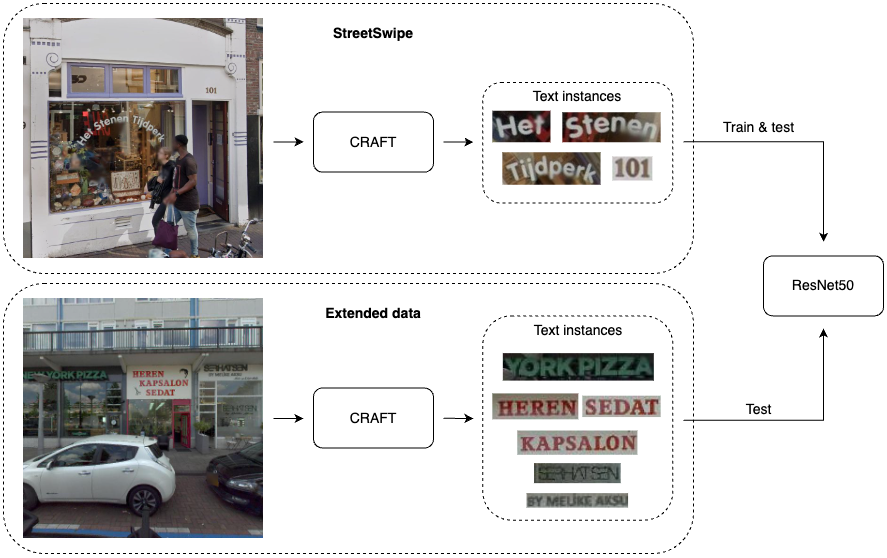
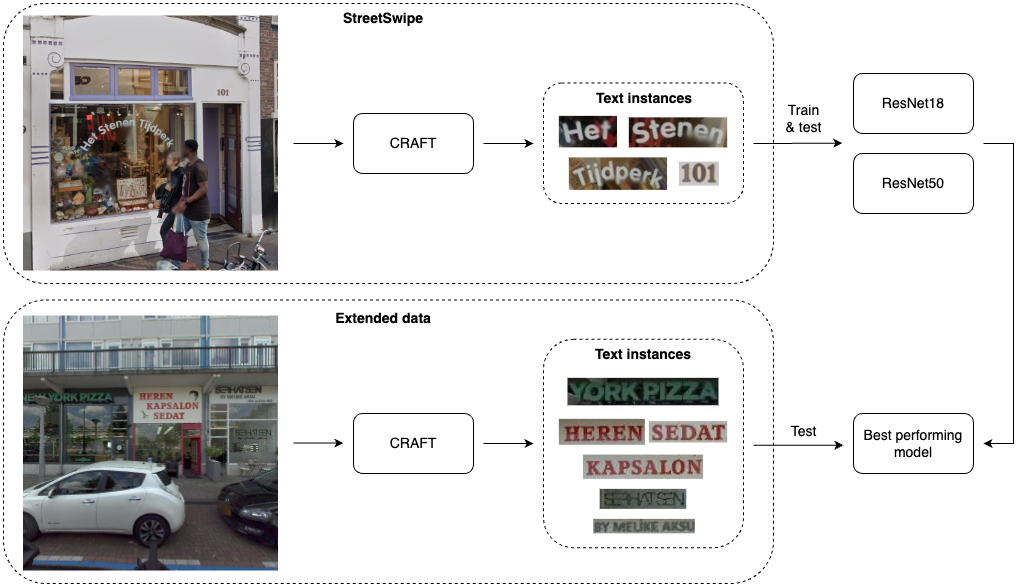
update

diff --git a/sections/2-thesis/2-related-work.tex b/sections/2-thesis/2-related-work.tex
@@ -1,11 +1,7 @@
 \section{Related Work}
 \label{sec:related_work}
 
-The state-of-the-art of the question at hand is that ...
-
 This section first outlines the findings of current ethnographic and urban studies on signage and gentrification, followed by a brief exploration into scene-text attribute learning. Next, the state-of-the-art of scene-text detection are given. Finally, image classification is discussed and the computer vision model to be used in the study is presented.
-
-% \subsubsection{Gentrification in Amsterdam}
 
 \subsection{Signage and gentrification}
 
@@ -17,37 +13,36 @@ Next to this, other studies have also analyzed storefront signage but with their
 
 All in all, findings show clear differences between the characteristics of gentrified and non-gentrified signage. It was therefore hypothesized that the same pattern can be found in Amsterdam's signage, and thus a computer vision model can be used to distinguish and detect gentrification based on signage.
 
-\subsubsection{Scene-text attribute learning (font, color, semantic)}
-Taking inspiration from the insights outlined above, where signage was analyzed in terms of typeface, color, and textual meaning (among other elements), an exploration in this direction was done for the current study. The initial goal was to learn these specific attributes and quantify, on a large scale, what characteristics differentiate gentrified and non-gentrified signage in Amsterdam. The pipeline would involve detecting the text instances from the original images (text detection), classifying the font type, inferring the dominant color, transcribing the text (text recognition), and learn semantics via word embeddings. However, given the state of the dataset at hand - namely, the lack of annotations other than the gentrification label - as well as resources available, this research direction was ultimately deemed unsuitable. The state-of-the-art approaches are described below.
+\subsubsection{Scene-text attribute learning}
+Taking inspiration from the insights outlined above, where signage was analyzed in terms of typeface, color, and textual meaning (among other elements), an exploration in this direction was done for the current study. The initial goal was to learn these specific attributes and quantify, on a large scale, what characteristics differentiate gentrified and non-gentrified signage in Amsterdam. The pipeline would involve detecting the text instances from the original images (text detection), classifying the font type, inferring the dominant colors, transcribing the text (text recognition), and learn semantics via word embeddings. However, given the state of the dataset at hand - namely, the lack of annotations other than the gentrification label - as well as resources available, this research direction was ultimately deemed unsuitable. The state-of-the-art approaches are described below.
 
 \begin{enumerate}
-    \item End-to-end: These are models that can take an image and output multiple elements of interest. Examples are NeurTEx \cite{aggarwal_neurtex_2022} (outputs text bounding box, transcript, and typeface), Fontnet \cite{s_fontnet_2021} (outputs color and typeface), and TaCo \cite{nie_taco_2022} (outputs color and typeface). However, these models are designed to be applied in the context of graphic design and on documents. Thus, they are not reliable when it comes to scene-text because of the added noise and distortions of natural images, especially given the lack of ground truth labels on StreetSwipe.
+    \item End-to-end: These are models that can take an image and output multiple elements of interest. Examples are NeurTEx \cite{aggarwal_neurtex_2022} (outputs text bounding box, transcript, and typeface), Fontnet \cite{s_fontnet_2021} (outputs color and typeface), and TaCo \cite{nie_taco_2022} (outputs color and typeface). However, these models are designed to be applied in the context of graphic design and on documents. They are not reliable when it comes to scene-text because of the added noise and distortions of natural images.
     \item Step-by-step: This approach uses individual models to learn each element:
     \begin{itemize}
-        \item Font: State-of-the-art models include DeepFont \cite{wang_deepfont_2015}, HENet \cite{chen_henet_2021}, and benchmark datasets include AdobeVFR \cite{wang_deepfont_2015}, and VFR-2420 \cite{chen_large-scale_2014}. These data are largely synthetic, and accordingly the models perform well on synthetic data, but are not robust when it comes to natural images. Furthermore, with neither pre-trained models nor ground truth available on StreetSwipe images, training and evaluation proves to be challenging and unreliable.
-        \item Text transcripts and semantics: Scene-text recognition models include MORAN \cite{luo_multi-object_2019}, CRNN \cite{shi_end2end_2015}, and PARSeq \cite{bautista_scene_2022}. For learning semantics, word embedding models such as FastText \cite{bojanowski_enriching_2017} or Word2Vec \cite{mikolov_efficient_2013} could be applied on the transcribed text. However, as was found from text detection (discussed in a later section), the text instances from the data were either not meaningful words (a nature of signage text), or fragmented upon detection (many words are broken up). Learning semantics from this data would not give meaningful and consistent results.
-        \item Color: Text colors as a standalone feature could be learnt via creating a color histogram \cite{srivastava_review_2015} per image. But instead, by using a convolution neural network (discussed in a later section), text colors can be learned as well along with many other features.
+        \item Font: State-of-the-art models include DeepFont \cite{wang_deepfont_2015}, HENet \cite{chen_henet_2021}, and benchmark datasets include AdobeVFR \cite{wang_deepfont_2015}, and VFR-2420 \cite{chen_large-scale_2014}. These data are largely synthetic, and accordingly the models perform well on synthetic data, but are not as robust when it comes to natural images. Furthermore, with neither pre-trained models nor ground truth available on StreetSwipe images, training and evaluation proves to be challenging and unreliable.
+        \item Text transcripts and semantics: State-of-the-art scene-text recognition models include MORAN \cite{luo_multi-object_2019}, CRNN \cite{shi_end2end_2015}, and PARSeq \cite{bautista_scene_2022}. For learning semantics, word embedding models such as FastText \cite{bojanowski_enriching_2017} or Word2Vec \cite{mikolov_efficient_2013} could be applied on the transcribed text. However, as was found from text detection (discussed in a later section), the text instances from the data were either not meaningful words (a nature of signage text), or fragmented upon detection (words are broken up). Learning semantics from this data would not give meaningful and consistent results.
+        \item Color: Text colors as a standalone feature could be learnt via creating a color histogram \cite{srivastava_review_2015} per image. But instead, by using a convolution neural network (discussed in a later section), colors can be learned as well along with many other features.
     \end{itemize}
 \end{enumerate}
 
-To account for the lack of ground truth labels, it was also considered that a synthetic scene-text dataset is created to be used as training and testing data, before inference is done on StreetSwipe. Gupta et al. \cite{gupta_synt_2016} offers a method for this that takes into account image segmentation and depth in order to generate text, with annotations on bounding box, typeface, color, and text transcript as needed. An example usage in a closely related study was done by Ma et al. \cite{ma_typef_2019}, in which the authors generated training data to recognize typeface on signage. Considering time constraint, however, this approach is non-viable. It requires either mining street view images that do not have text to be synthesized on, or using pre-generated images from Gupta et al., which largely include many types of background other than street view of facades. Either method proves impractical - the former is time-consuming, even when discounting for model training and tuning; and the latter is a domain mismatch compared to StreetSwipe.
+To account for the lack of ground truth labels, it was also considered that a synthetic scene-text dataset is created to be used as training and testing data, before inference is done on StreetSwipe. Gupta et al. \cite{gupta_synt_2016} offers a method for this that takes into account image segmentation and depth in order to generate text, with annotations on bounding box, typeface, color, and text transcript as needed. An example usage in a closely related study was done by Ma et al. \cite{ma_typef_2019}, in which the authors generated training data to recognize typeface on signage. Considering time constraint, however, this approach was non-viable. It required either mining street view images that do not have text to be synthesized on, or using pre-generated images from Gupta et al., which largely included many types of background other than street view of facades. Either method proved impractical - the former is time-consuming, even when discounting for model training and tuning; and the latter is a domain mismatch compared to StreetSwipe.
 
-All in all, a machine learning approach for replicating existing studies was not found. A more appropriate research direction was devised that involves learning a more general visual representation of the signage with a convolutional neural network. Signs would firstly be extracted using a pre-trained text-detection model, and a classification model would be trained and tested on these signage.
+All in all, a machine learning approach for replicating existing studies was not found. A more appropriate research direction was devised that involved learning a more general visual representation of the signage with a convolutional neural network. Signs would firstly be extracted using a pre-trained text-detection model, and a classification model would be trained and tested on these signage.
 
 \subsection{Scene-text detection}
 Scene-text detection involves identifying and localizing text in natural images - a task fundamental to the current study. The challenge in this task stems from extracting text from complex images, with the text surrounded by other objects, varying in sizes, perspectives, orientations, sometimes curved, obstructed, or blurry.
 
-Benchmark datasets for this task include ICDAR 2013 \cite{icdar13} and 2015 \cite{icdar15}, and TotalText \cite{totaltext}. The most widely implemented models are EAST \cite{zhou_east_2017} and CRAFT \cite{baek_character_2019}. CRAFT is the best performing model on ICDAR 2013, and surpasses EAST on ICDAR 2015 and TotalText. CRAFT is more accurate on curved, long, and non-horizontal text. By calculating character region scores (localizing characters) and affinity scores between characters (grouping characters into sequences), the model returns word-level bounding boxes. The model is also multilingual - a necessary feature considering signage in the dataset are (at least) in Dutch, English, Chinese and Korean. CRAFT is thus the model used in this study for extracting signage.
+Benchmark datasets for this task include ICDAR 2013 \cite{icdar13} and 2015 \cite{icdar15}, and TotalText \cite{totaltext}. The most widely implemented models are EAST \cite{zhou_east_2017} and CRAFT \cite{baek_character_2019}. CRAFT is the best performing model on ICDAR 2013, and surpasses EAST on ICDAR 2015 and TotalText. CRAFT is more accurate on curved, long, and non-horizontal text. By calculating character region scores (localizing characters) and affinity scores between characters (grouping characters into sequences), the model returns word-level bounding boxes. The model is also multilingual - a necessary feature considering signage in the dataset at hand are (at least) in Dutch, English, Chinese and Korean. CRAFT is thus the model used in this study for extracting signage.
 
-The pre-trained CRAFT model was implemented via the EasyOCR Python package \cite{noauthor_jaided_nodate}, which offers an ease of implementation also allows for processing multiple languages simultaneously.
+The pre-trained CRAFT model was implemented via the EasyOCR Python package \cite{noauthor_jaided_nodate}, which offered an ease of implementation and also allowed for processing multiple languages simultaneously.
 
 \subsection{Image classification}
-The Residual Network (ResNet) \cite{resnet}, along with the use of skip connections in its architecture, has enabled deeper networks to learn more efficiently, without the problem of vanishing or exploding gradients. For the task of learning and classifying signage, fine-tuned ResNet18 and ResNet50 were used, initialized with pre-trained weights from ImageNet. After achieving satisfactory performance, the best model's predictions were further analyzed. 
+The Residual Network (ResNet) \cite{resnet}, with the use of skip connections in its architecture, has enabled deeper networks to learn more efficiently, without the problem of vanishing or exploding gradients. For the task of learning and classifying signage, fine-tuned ResNet18 and ResNet50 were chosen as candidate models, initialized with pre-trained weights from ImageNet. After achieving satisfactory performance, the best model's predictions were further analyzed. 
 
-Firstly, the correctly classified signage within the top 10 highest probability from each class were inspected - this showed the most typical and distinguishing characteristics of gentrified and non-gentrified signage. In comparison with existing studies (as outlined in section 2.1), conclusions were drawn on the extent to which patterns found elsewhere were similar to our case of Amsterdam.
+Firstly, the correctly classified signage within the top 20 highest probabilities from each class were inspected - this showed the most typical and distinguishing characteristics of gentrified and non-gentrified signage. In comparison with existing studies (as outlined in section 2.1), conclusions were drawn on the extent to which patterns found elsewhere were similar to our case of Amsterdam.
 
-Secondly, the incorrectly classified signage were inspected, especially those with probabilities of belonging in the two classes close together. These can be considered the more fuzzy cases - something that previous studies did not report on.
+Secondly, the incorrectly classified signage were inspected. These can be considered the more fuzzy cases - something that previous studies did not report on.
 
-Finally, the model were tested on an external dataset of other neighborhoods in the city. Given literature on gentrification in Amsterdam, gentrified and non-gentrified neighborhoods (i.e. per census data) were selected, and street view images from these areas are collected from a dataset made available by the Civic AI Lab. Gentrified neighborhoods include Jordaan \cite{verlaan_hippies_2022}, Oud-West, De Baarjes \cite{rettberg_when_2019}; and non-gentrified neighborhoods include Zuidoost and Nieuw-West \cite{pinkster_stickiness_2020}. Images taken from these neighborhoods are labeled accordingly. Thus, when testing the model (trained on visual perception) on this data, we could tell to which extent the perception is applicable on a neighborhood level (i.e. given a gentrified neighborhood, to which extent are signage in that neighborhood seen as gentrified?). Further, the model's prediction on this data were also visualized as per highest probabilities per class, irrespective of ground truth label. This showed us what the model think as gentrified and non-gentrified, and were this to be in-line with characteristics found in StreetSwipe, this would support the model's generalizability in detecting gentrification.
+Finally, the model was tested on an external dataset of other neighborhoods in the city. Given literature on gentrification in Amsterdam, gentrified and non-gentrified neighborhoods were selected, and street view images from these areas were retrieved from a dataset made available by the Civic AI Lab. Gentrified areas include Jordaan \cite{verlaan_hippies_2022}, Oud-West, De Baarjes \cite{rettberg_when_2019}; and non-gentrified areas include Zuidoost and Nieuw-West \cite{pinkster_stickiness_2020}. Images taken from these neighborhoods are labeled accordingly. Thus, when testing the model (trained on visual perception) on this data (labeled per census data), we could tell to which extent the perception is applicable on a neighborhood level. In other words, given a gentrified neighborhood, to which extent are signage in that neighborhood seen as gentrified? Further, the model's predictions on this data were also visualized as per the highest 20 probabilities per class, irrespective of ground truth labels. This showed what the model considered as gentrified and non-gentrified, and were this to be in-line with characteristics found in StreetSwipe, this would support the model's generalizability in detecting gentrification.
 
-In summary, [...]

diff --git a/sections/2-thesis/4-results.tex b/sections/2-thesis/4-results.tex
@@ -31,37 +31,54 @@ The data was not annotated with bounding boxes of the signage as ground truth fo
 
 \subsection{Classification}
 \subsubsection{Baseline}
-Results of the baseline model is shown in Table \ref{fig:baseline_avg}, along with its classwise metrics in Table \ref{fig:baseline_cls}.
+Results of the baseline model are shown in Table \ref{fig:baseline_metrics}.
 
-\begin{table}[H]
-\begin{tabular}{lcc}
-\multirow{2}{*}{Metrics} & \multicolumn{2}{c}{Baseline} \\ \cline{2-3} 
-                         & Val         & Test           \\ \hline
-Accuracy                 & X           & 0.5810         \\
-Precision                & X           & 0.6852         \\
-Recall                   & X           & 0.5810         \\
-F1-score                 & X           & 0.5800        
-\end{tabular}
-\caption{Macro-averaged metrics of baseline model (ResNet50, no weighted sampling, no fine-tuning}
-\label{fig:baseline_avg}
-\end{table}
-
-\begin{table}[H]
+\begin{table}[h]
 \begin{tabular}{llcc}
-\multirow{2}{*}{Metrics} & \multirow{2}{*}{Class} & \multicolumn{2}{c}{Baseline} \\ \cline{3-4} 
-                         &                        & Val         & Test           \\ \hline
-Accuracy                 & Gentrified             & X           & 0.2143         \\
-                         & Non-gentrified         & X           & 0.9478         \\
-Precision                & Gentrified             & X           & 0.6122         \\
-                         & Non-gentrified         & X           & 0.7582         \\
-Recall                   & Gentrified             & X           & 0.2143         \\
-                         & Non-gentrified         & X           & 0.9478         \\
-F1-score                 & Gentrified             & X           & 0.3175         \\
-                         & Non-gentrified         & X           & 0.8425        
+\multirow{2}{*}{Metrics}   & \multirow{2}{*}{Class} & \multicolumn{2}{c}{Baseline model}        \\ \cline{3-4} 
+                           &                        & Classwise & Average                 \\ \hline
+Accuracy                   & Gentrified             & 0.2143    & \multirow{2}{*}{0.5810} \\
+                           & Non-gentrified         & 0.9478    &                         \\
+Precision                  & Gentrified             & 0.6122    & \multirow{2}{*}{0.6852} \\
+                           & Non-gentrified         & 0.7582    &                         \\
+Recall                     & Gentrified             & 0.2143    & \multirow{2}{*}{0.5810} \\
+                           & Non-gentrified         & 0.9478    &                         \\
+F1-score                   & Gentrified             & 0.3175    & \multirow{2}{*}{0.5800} \\
+                           & Non-gentrified         & 0.8425    &                        
 \end{tabular}
-\caption{Classwise metrics of baseline model (ResNet50, no weighted sampling, no fine-tuning)}
-\label{fig:baseline_cls}
+\caption{Classwise and macro-averaged metrics of baseline model (ResNet50, no weighted sampling, no fine-tuning). This model achieved very high performance for non-gentrified signage, but performed poorly on gentrified signage, due to class imbalance.}
+\label{fig:baseline_metrics}
 \end{table}
+
+% \begin{table}[H]
+% \begin{tabular}{lcc}
+% \multirow{2}{*}{Metrics} & \multicolumn{2}{c}{Baseline} \\ \cline{2-3} 
+%                          & Val         & Test           \\ \hline
+% Accuracy                 & X           & 0.5810         \\
+% Precision                & X           & 0.6852         \\
+% Recall                   & X           & 0.5810         \\
+% F1-score                 & X           & 0.5800        
+% \end{tabular}
+% \caption{Macro-averaged metrics of baseline model (ResNet50, no weighted sampling, no fine-tuning)}
+% \label{fig:baseline_avg}
+% \end{table}
+
+% \begin{table}[H]
+% \begin{tabular}{llcc}
+% \multirow{2}{*}{Metrics} & \multirow{2}{*}{Class} & \multicolumn{2}{c}{Baseline} \\ \cline{3-4} 
+%                          &                        & Val         & Test           \\ \hline
+% Accuracy                 & Gentrified             & X           & 0.2143         \\
+%                          & Non-gentrified         & X           & 0.9478         \\
+% Precision                & Gentrified             & X           & 0.6122         \\
+%                          & Non-gentrified         & X           & 0.7582         \\
+% Recall                   & Gentrified             & X           & 0.2143         \\
+%                          & Non-gentrified         & X           & 0.9478         \\
+% F1-score                 & Gentrified             & X           & 0.3175         \\
+%                          & Non-gentrified         & X           & 0.8425        
+% \end{tabular}
+% \caption{Classwise metrics of baseline model (ResNet50, no weighted sampling, no fine-tuning)}
+% \label{fig:baseline_cls}
+% \end{table}
 
 \subsubsection{Fine-tuned}
 The best performing model with ResNet18 architecture was found with learning rate set to 0.001, batch size 32, and 60 training epochs. The best performing model with ResNet50 architecture was found with learning rate set to 0.01, batch size 64, and 60 training epochs. The macro-averaged metrics across classes for these models are shown in Table \ref{fig:resnet_compare}. As can be seen, the fine-tuned ResNet50 has better performance. Its classwise metrics are shown in Table \ref{fig:resnet50_cls}.
@@ -75,7 +92,7 @@ Precision                & 0.6185        & 0.6715        & 0.6209        & \text
 Recall                   & 0.6497        & 0.6960        & 0.6506        & \textbf{0.7033}       \\
 F1-score                 & 0.6222        & 0.6781        & 0.6256        & \textbf{0.6865}      
     \end{tabular}
-    \caption{Macro-averaged metrics of best-performing ResNet18 and ResNet50}
+    \caption{Macro-averaged metrics of the best-performing fine-tuned ResNet18 and ResNet50. Between these two models, the fine-tuned ResNet50 performed better.}
     \label{fig:resnet_compare}
 \end{table}
 
@@ -90,10 +107,10 @@ Precision                  & Gentrified             & 0.3953        & 0.5114    
                            & Non-gentrified         & 0.8464        & 0.8476       \\
 Recall                     & Gentrified             & 0.5714        & 0.6429       \\
                            & Non-gentrified         & 0.7299        & 0.7637       \\
-F1-score                   & Gentrified             & 0.4674        & 0.5696       \\
-                           & Non-gentrified         & 0.7838        & 0.8035      
+F1-score                   & Gentrified             & 0.4674        & \textbf{0.5696}       \\
+                           & Non-gentrified         & 0.7838        & \textbf{0.8035}      
 \end{tabular}
-\caption{Classwise metrics of best model (fine-tuned ResNet50, learning rate 0.01, batch size 64, 60 epochs)}
+\caption{Classwise metrics of best model (fine-tuned ResNet50, learning rate 0.01, batch size 64, 60 epochs). Even though there was clear improvements in classifying gentrified signage compared to the baseline model, this model still did better on non-gentrified signage - most notably shown in the F1-scores of each class.}
 \label{fig:resnet50_cls}
 \end{table}
 

diff --git a/sections/2-thesis/3-methodology.tex b/sections/2-thesis/3-methodology.tex
@@ -7,11 +7,11 @@
 
 \subsection{Data}
 \subsubsection{StreetSwipe}
-The main dataset was retrieved from the StreetSwipe project \cite{streetswipe}. Using crowd-sourcing, the project lets people decide whether each Amsterdam facade is gentrified, by voting "Yes" (gentrified) or "No" (non-gentrified) on the street view images of these facades. The official \textit{Gentrified} and \textit{Non-gentrified} labels for each facade are based on what the majority voted for. Thus, this dataset represents common visual perception of gentrification. Additionally, if subsequent voters decide against the majority (e.g. voting \textit{Gentrified} for a non-gentrified-labelled facade), they are also prompted to provide a textual reasoning for their decision. These mismatch responses were also available, however was out of scope of the study. 
+The main dataset was retrieved from the Street-Swipe project \cite{streetswipe}. Using crowd-sourcing, the project lets people decide whether each Amsterdam facade is gentrified, by voting "Yes" (gentrified) or "No" (non-gentrified) on the street view images of these facades. The official \textit{Gentrified} and \textit{Non-gentrified} labels for each facade are based on what the majority voted for. Thus, this dataset represents common visual perception of gentrification. Additionally, if subsequent voters decide against the majority (e.g. voting \textit{Gentrified} for a non-gentrified-labelled facade), they are also prompted to provide a textual reasoning for their decision. These mismatch responses were also available, however was out of scope of the study. 
 
 Since there are two versions of StreetSwipe, the data retrieved existed in two sets, consisting of 1912 higher resolution images from the older version and 529 lower resolution images from the new one. The StreetSwipe dataset thus had 2,441 images in total, each with its numbers of "Yes" and "No" votes, and metadata on the facade's location (latitude and longitude) and street name. The new version's images also had more detailed address, name, and type of business/services. There were also more votes in the new version than in the old one. The images from the old version were available directly, while the new ones were provided via URLs to a Google APIs bucket, and thus were scraped.
 
-Feature engineering was done to create the gentrified/non-gentrified label per image, by taking the vote higher in volume. The images were then re-grouped per their corresponding labels. There was class imbalance in the data, with 71\% of the images labelled non-gentrified (1731 images; versus 710 gentrified images). The images had quite consistent aspect ratios of approximately 1:1; however, they varied in size, ranging from around 300x300 to 1700x1700, with one outlier of size approximately 2500x1300.
+Feature engineering was done to create the gentrified/ non-gentrified label per image, by taking the vote higher in volume. The images were then re-grouped per their corresponding labels. There was class imbalance in the data, with 71\% of the images labelled non-gentrified (1731 images; versus 710 gentrified images). The images had quite consistent aspect ratios of approximately 1:1; however, they varied in size, ranging from around 300x300 to 1700x1700, with one outlier of size approximately 2500x1300.
 
 Passing this dataset through the CRAFT text detection model returned 10079 instances in total, with 2610 gentrified instances (26\%) and 7469 non-gentrified instances (74\%). The instances varied a lot in size, typically with width larger than height. The widths ranged from 8 to 1576, and heights ranged from 6 to 795 (see Appendix \ref{sec:apx:first_appendix} - Figure \ref{fig:SS_ins_sz} for a visualization of the distributions).
 
@@ -33,8 +33,8 @@ The data pipeline is visualized in Figure \ref{fig:pipeline}. This section outli
 
 \begin{figure*}[]
     \centering
-    \includegraphics[width=\textwidth]{media/methodology/Pipeline2.png}
-    \caption{Pipeline: Images of facades labelled gentrified or non-gentrified are first fed into the text detection model (CRAFT) to extract text instances. The ResNet50 is then trained and tested on instances from StreetSwipe. Subsequently, the model is tested on instances from the extended data.}
+    \includegraphics[width=\textwidth]{media/methodology/Pipeline.png}
+    \caption{Pipeline: Images of facades labelled gentrified or non-gentrified were first fed into the text detection model (CRAFT) to extract text instances. The ResNets were then trained and tested on instances from StreetSwipe. Subsequently, the best performing model was tested on instances from the extended data.}
     \label{fig:pipeline}
 \end{figure*}
 

diff --git a/sections/2-thesis/1-introduction.tex b/sections/2-thesis/1-introduction.tex
@@ -2,7 +2,7 @@
 \label{sec:introduction}
 % Mention scientific context/field, problem statement, research gap and candidate (sub) research question(s). 
 
-Within urban studies, gentrification is a phenomenon widely discussed. First coined by British sociologist Ruth Glass in 1964 in her work about the inner city of London \cite{Glass1964}, the term refers to a neighborhood changing as a result of wealthier residents moving in, gradually displacing existing residents as local housing and service prices increase, and culture homogenized or replaced. Gentrification thus involves an economic and demographic shift, as well as changes in the aesthetics of the built environment. For its negative effects on marginalized communities, it is worthwhile to understand and detect gentrification. This study takes a focus on the visual indicators of gentrification, for visual elements are arguably the most telling factor of a neighborhood’s cultural identity, demographic and economic characteristics.
+Within urban studies, gentrification is a phenomenon widely discussed. First coined by British sociologist Ruth Glass in 1964 in her work about the inner city of London \cite{Glass1964}, the term refers to a neighborhood changing as a result of wealthier residents moving in, gradually displacing existing residents as local housing and service prices increase, and cultures homogenized or replaced. Gentrification thus involves an economic and demographic shift, as well as changes in the aesthetics of the built environment. For its negative effects on marginalized communities, it is worthwhile to understand and detect gentrification. This study takes a focus on the visual indicators of gentrification, as visual elements are arguably the most telling factor of a neighborhood’s cultural identity, demographic and economic characteristics.
 
 Gentrification is a multi-dimensional and multi-step process. Döring and Ulbricht \cite{döring_ulbricht_2018} define gentrification as having 4 aspects: functional (establishment of businesses and cultural institutions), architectural (upgrade to the built environment), social (marginalization, displacement and replacement of existing residents), and symbolic (communication of a new image of the neighborhood to the wider public). As has been noted by Feiereisen and Sassin \cite{feiereisen_sounding_2021}, the functional, architectural, and symbolic aspects can be seen as constituting the visual indicators of gentrification. While these three aspects take shape in multiple characteristics of the built environment, on-premise signage, or storefront signage (hereafter: signage) is a rich communication medium that embodies all three aspects. It is through signage that businesses directly establish their presence, communicate their commercial purposes and values, and distinguish themselves via their curated aesthetics \cite{rahman_signage_2020}. Furthermore, businesses understand the socio-cultural values and identity of the neighborhood, and thus design their appearance to best attract and serve this audience:
 
@@ -28,7 +28,7 @@ To answer this research question, this study clarifies the following sub-questio
 
 \begin{enumerate}
     \item Sub-RQ 1: To which extent can the scene-text detection model CRAFT identify storefront signage from street view images?
-    \item Sub-RQ 2: To which extent can a fine-tuned ResNet50 learn features of the extracted signage and correctly identify gentrified and non-gentrified signage?
+    \item Sub-RQ 2: To which extent can fine-tuned ResNets correctly identify gentrified and non-gentrified signage?
     \item Sub-RQ 3: How does the model trained on visual perception perform on a test set of data from other neighborhoods?
     \item Sub-RQ 4: What are the characteristics of correctly classified signage within the top 20 highest probabilities per class?
     \item Sub-RQ 5: What are the characteristics of misclassified signage?

diff --git a/setups/2-thesis.tex b/setups/2-thesis.tex
@@ -27,10 +27,10 @@
 \subtitle{An Analysis into Amsterdam's Storefront Signage with Machine Learning and Street View Imagery}
 
 % Date on which your thesis is submitted
-\date{Fill In The Date In Format DD.MM.YYYY}
+\date{DD.MM.YYYY}
 
 % 4-5 keywords should do the trick. They should ideally be phrases of 2-4 words or single words.
-\keywords{gentrification, street view imagery, storefront signage, scene-text analysis, classification}
+\keywords{gentrification, street view imagery, storefront signage, scene-text detection, classification}
 
 % Author data
 \authorname{Anh Tran}
@@ -66,9 +66,12 @@
 \maketitlepage
 \fixemptypage
 
+\title{Signs of Gentrification}
+\subtitle{An Analysis into Amsterdam's Storefront Signage with Machine Learning and Street View Imagery}
+
 \begin{abstract}
 % % A summary of results should be included. Avoid citations. Maximum length is 200 words.
-Gentrification refers to the process of a neighborhood changing as a result of wealthier residents moving in, bringing investments and improvements, but displacing the existing residents due to rising prices and changing cultures. More recent developments in street view imagery and machine learning has allowed for further understanding into the visual aspect of gentrification, by means of large scale analyses of images of facades. However, there has not been much focus on the storefront signage (shop signs and other textual elements) with regards to this topic; while previous studies have pointed out that certain aesthetics of signage (e.g. fonts, colors, semantics) are associated to gentrification. This research aim to fill this gap, by using computer vision techniques on the crowd-sourced StreetSwipe dataset of streetview images in Amsterdam, to understand...
+Gentrification refers to the process of a neighborhood changing as a result of wealthier residents moving in, bringing improvements but displacing existing residents due to rising prices and changing cultures. More recent developments in street view imagery and machine learning has allowed for further understanding into the visual aspect of gentrification; however, there has not been much focus on storefront signage. Given that ethnographic studies have pointed out how signage mirrors gentrification, this research aims to utilize computer vision for studying signage. Training a computer vision model on Amsterdam signage shows the same aesthetics of gentrified and non-gentrified signage compared to previous studies; as well as an ability to detect the same patterns given unseen images of signage throughout the city.
 \end{abstract}
 
 \maketitle

diff --git a/sections/2-thesis/5-discussion.tex b/sections/2-thesis/5-discussion.tex
@@ -5,11 +5,17 @@
 
 \subsection{Summarizing results}
 Answering RQs:
+
 1. CRAFT was able to detect signage with reasonable accuracy and completeness, though noise remains.
+
 2. A fine-tuned ResNet50 is able to learn signage features and classify them with 70\% accuracy.
+
 3. There is a gap between the model's performance on StreetSwipe and on extended data of other gentrified/non-gentrified neighborhoods. This suggests that "statistically" gentrified does not necessarily mean visually gentrified. Points to question about the neighborhood's demographic makeup? Maybe displacement did not happen to old residents, or it did happen but old business owners were able to adapt to new residents.
+
 4. Characteristics of signage as classified by the model are in-line with findings of previous research: gentrified signage looks more homogenized, and are more likely to be in English, while non-gentrified signs look more decorated with serif fonts and more colors, and are largely in Dutch.
+
 5. Misclassified signage follow the styles of the class they were classified to (i.e. non-gentrified signage looks like gentrified signage in terms of font and colors)
+
 6. Signage of the extended dataset follow the style of the class they were classified to (they look like the correctly classified instances from StreetSwipe). Suggests model is generalizable to detect gentrification through signage, based on visual perception.
 
 \subsection{Limitations}
